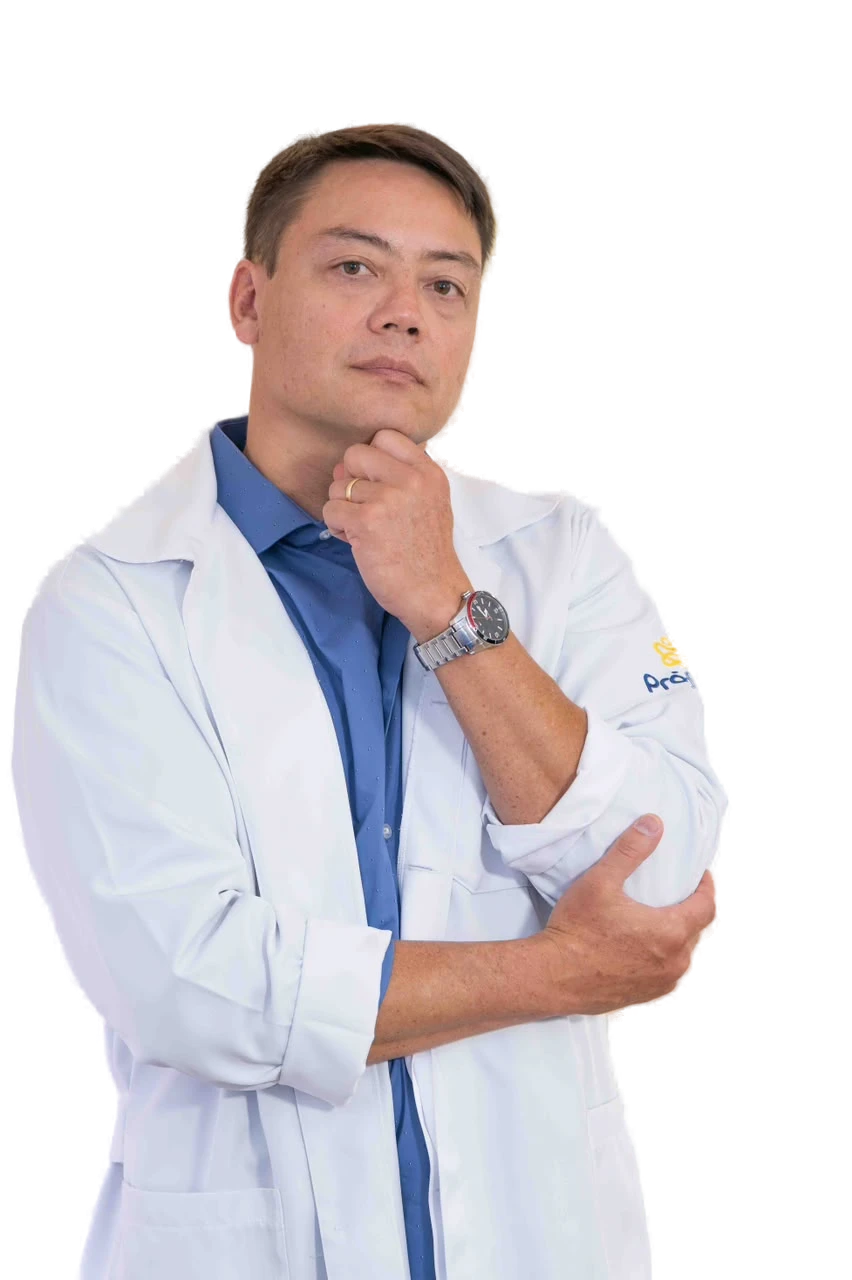
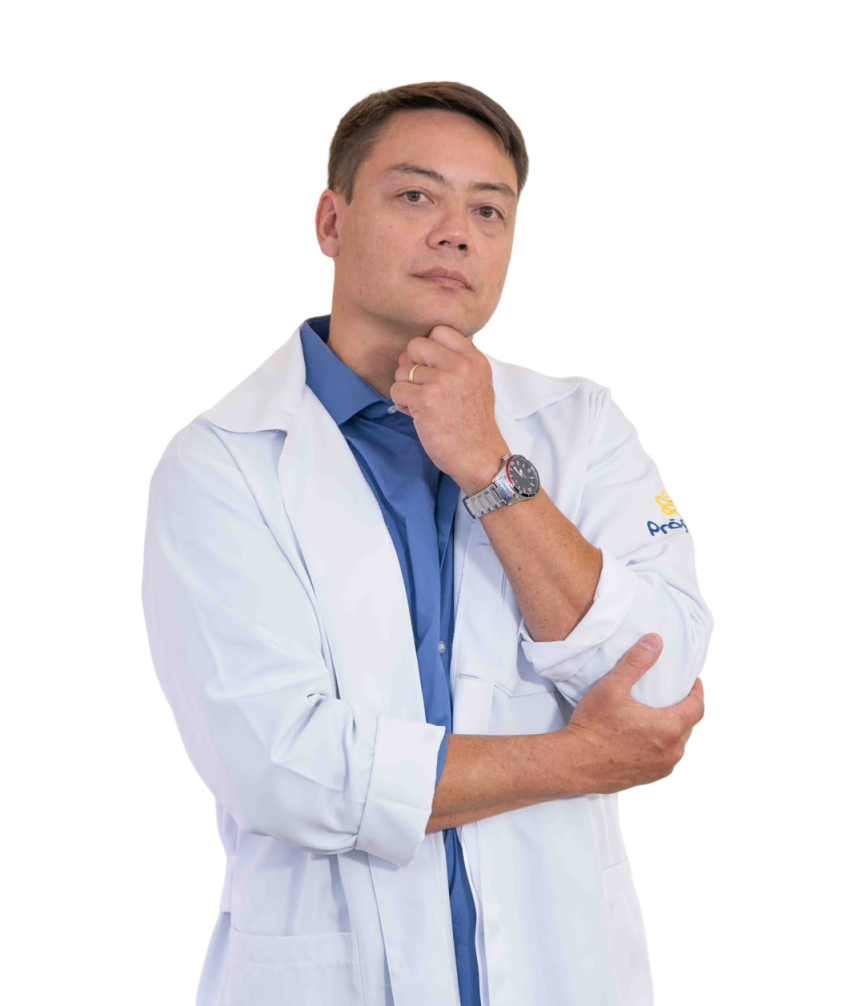
finish

diff --git a/src/routes/index.tsx b/src/routes/index.tsx
@@ -8,21 +8,21 @@ export const Route = createFileRoute("/")({
 const services = [
   { n: "01", title: "Fisioterapia Respiratória", tag: "Atendimento CTI", desc: "Atuação especializada no cuidado de pacientes críticos, com foco na prevenção de complicações, recuperação funcional, reabilitação respiratória e motora, contribuindo para uma evolução clínica mais segura." },
   { n: "02", title: "Fisioterapia Ortopédica e Desportiva", tag: "Atletas & Ativos", desc: "Atuação na prevenção de lesões, recuperação funcional e aprimoramento do desempenho físico, auxiliando atletas e praticantes de atividades esportivas a retornarem às suas atividades com segurança." },
-  { n: "03", title: "Fisioterapia Neurológica", tag: "AVC · Parkinson", desc: "Tratamento especializado para recuperar a funcionalidade e independência de pacientes com sequelas de AVC, Parkinson, esclerose e outras condições neuromotoras." },
+  { n: "03", title: "Fisioterapia Neurológica", tag: "Distúrbios neurológicos", desc: "Tratamento especializado para recuperar a funcionalidade e independência de pacientes com sequelas de AVC, Parkinson, esclerose e outras condições neuromotoras." },
   { n: "04", title: "Fisioterapia na Saúde do Idoso", tag: "Envelhecer bem", desc: "Envelhecer com qualidade é manter a capacidade de viver com autonomia. A fisioterapia atua no cuidado integral do idoso, promovendo movimento, segurança e qualidade de vida em todas as fases do envelhecimento." },
   { n: "05", title: "Acupuntura", tag: "Terapia integrativa", desc: "Aplicação de técnicas tradicionais para modulação da dor, controle de processos inflamatórios, redução do estresse e equilíbrio sistêmico do organismo." },
   { n: "06", title: "Fisioterapia do Trabalho e Ergonomia", tag: "Saúde ocupacional", desc: "Avaliação e intervenção voltadas à saúde ocupacional, prevenção de lesões relacionadas ao trabalho, adequação ergonômica e promoção de ambientes mais seguros e saudáveis." },
 ];
 
 const testimonials = [
-  { name: "Alexandre", role: "Fisioterapia Neurológica", text: "Me respeitou como pessoa e mesmo com dois meses de internamento, me ajudou muito a fazer com que a depressão ficasse longe. Obrigado pelo apoio, pois sabemos que não é fácil com tanta gente pra ser ajudada e ainda manter um atendimento personalizado, um cuidado efetivo. Obrigado meu amigo, que Deus te abençoe e te guarde, sempre." },
-  { name: "Kauanny", role: "Atendimento CTI", text: "Eu lhe agradeço muito, dia 22/07 fez um ano da minha alta e do dia em que consegui caminhar com sua ajuda... Deus te abençoe grandiosamente seu trabalho e sua humanidade fazem a diferença na vida de muitas pessoas grande abraço fisio, serei eternamente grata! 🙏🏼" },
-  { name: "Carlos", role: "Paciente - COVID-19", text: "Cara só tenho a agradecer se não fosse sua atenção, cuidado e dedicação talvez eu nem estaria aqui hoje. Que Deus te abençõe imensamente e que você continue prestando esse serviço maravilhoso como fisio, muito obrigado!" },
+  { name: "Alexandre", role: "17/01/2022 - Hospital Santa Cruz\n(rede d´or)", text: "Me respeitou como pessoa e mesmo com dois meses de internamento, me ajudou muito a fazer com que a depressão ficasse longe. Obrigado pelo apoio, pois sabemos que não é fácil com tanta gente pra ser ajudada e ainda manter um atendimento personalizado, um cuidado efetivo. Obrigado meu amigo, que Deus te abençoe e te guarde, sempre." },
+  { name: "Kauanny", role: "22/07/2021 - Hospital Santa Cruz\n(rede d´or)", text: "Eu lhe agradeço muito, dia 22/07 fez um ano da minha alta e do dia em que consegui caminhar com sua ajuda... Deus te abençoe grandiosamente seu trabalho e sua humanidade fazem a diferença na vida de muitas pessoas grande abraço fisio, serei eternamente grata! 🙏🏼" },
+  { name: "Carlos", role: "20/06/2021 - Hospital Vitória", text: "Cara só tenho a agradecer se não fosse sua atenção, cuidado e dedicação talvez eu nem estaria aqui hoje. Que Deus te abençõe imensamente e que você continue prestando esse serviço maravilhoso como fisio, muito obrigado!" },
 ];
 
 const stats = [
   { value: "5.700+", label: "Pacientes atendidos" },
-  { value: "23+", label: "Anos de experiência" },
+  { value: "25+", label: "Anos de experiência" },
   { value: "100%", label: "Taxa de satisfação" },
   { value: "12", label: "Especialidades" },
 ];
@@ -51,10 +51,10 @@ function Index() {
   };
 
   const nav = [
-    { id: "manifesto", label: "Manifesto" },
+    { id: "manifesto", label: "No que acredito" },
     { id: "praticas", label: "Práticas" },
     { id: "sobre", label: "Sobre" },
-    { id: "vozes", label: "Vozes" },
+    { id: "vozes", label: "Depoimentos" },
     { id: "contato", label: "Contato" },
   ];
 
@@ -133,19 +133,19 @@ function Index() {
       <header id="inicio" className="relative pt-32 md:pt-40 pb-20 md:pb-28 px-6 md:px-10">
         <div className="max-w-7xl mx-auto grid md:grid-cols-12 gap-8 items-end">
           <div className="md:col-span-7 animate-fade-up">
-            <div className="flex items-center gap-3 mb-8 text-xs uppercase tracking-[0.3em] text-muted-foreground">
+            <div className="flex items-center gap-3 mb-8 text-sm uppercase tracking-[0.3em] text-muted-foreground">
               <span className="h-px w-10 bg-primary" />
               <span>Belo Horizonte · Atendimento presencial</span>
             </div>
             <h1 className="font-serif-display text-[clamp(3rem,8vw,7rem)] leading-[0.95] text-ink">
-              O movimento
+              Para recuperar
               <br />
-              é o caminho de
+              sua <em className="text-primary font-normal">autonomia</em> comece pelo
               <br />
-              <em className="text-primary font-normal">volta a si.</em>
+              <em className="text-primary font-normal">movimento !</em>
             </h1>
             <p className="mt-10 max-w-lg text-lg md:text-xl text-foreground/70 leading-relaxed">
-              Fisioterapia que vai até você — cuidado especializado para
+              Fisioterapia que vai até você! Cuidado especializado para
               recuperar movimentos, autonomia e qualidade de vida, com um olhar
               humano em cada consulta.
             </p>
@@ -177,12 +177,13 @@ function Index() {
               />
               <div className="absolute bottom-0 inset-x-0 p-6 bg-foreground/35 backdrop-blur border-t border-background/20">
                 <div className="text-xs uppercase tracking-widest text-background/70">CREFITO</div>
-                <div className="font-serif-display text-2xl text-background mt-1">Nº 54341-F</div>
+                <div className="font-body font-medium tracking-wide tabular-nums text-xl text-background mt-1">Nº 54341-F</div>
               </div>
             </div>
-            <div className="mt-6 flex items-center gap-4 text-sm text-muted-foreground">
+            <div className="mt-6 flex items-center text-sm text-muted-foreground">
               <span className="font-serif-display italic text-2xl text-primary">"</span>
               <span>Um cuidado que atravessa gerações e histórias.</span>
+              <span className="font-serif-display italic text-2xl text-primary">"</span>
             </div>
           </div>
         </div>
@@ -191,7 +192,7 @@ function Index() {
         <div className="max-w-7xl mx-auto mt-24 grid grid-cols-2 md:grid-cols-4 border-t border-border">
           {stats.map((s) => (
             <div key={s.label} className="py-8 px-2 md:px-6 border-r last:border-r-0 border-border">
-              <div className="font-serif-display text-4xl md:text-5xl text-ink">{s.value}</div>
+              <div className="font-body font-light tracking-tight tabular-nums text-4xl md:text-5xl text-ink">{s.value}</div>
               <div className="mt-2 text-xs uppercase tracking-widest text-muted-foreground">{s.label}</div>
             </div>
           ))}
@@ -208,7 +209,7 @@ function Index() {
           className="pointer-events-none absolute -right-24 top-1/2 -translate-y-1/2 w-[26rem] md:w-[34rem] opacity-[0.12]"
         />
         <div className="relative max-w-5xl mx-auto">
-          <div className="text-xs uppercase tracking-[0.4em] text-background/50 mb-10">Manifesto ·  §01</div>
+          <div className="text-sm uppercase tracking-[0.4em] text-background/50 mb-10">No que Acredito</div>
           <p className="font-serif-display text-3xl md:text-5xl leading-tight text-background">
             Cada corpo carrega uma história. A fisioterapia começa quando alguém
             se dispõe a ouvir essa história{" "}
@@ -217,7 +218,7 @@ function Index() {
           <div className="mt-16 flex items-center gap-4">
             <span className="h-px w-16 bg-primary" />
             <span className="text-sm uppercase tracking-widest text-background/70">
-              Deivis Cordeiro — 23 anos de prática clínica
+              Deivis Cordeiro — 25 anos de prática clínica
             </span>
           </div>
         </div>
@@ -228,10 +229,10 @@ function Index() {
         <div className="max-w-7xl mx-auto">
           <div className="grid md:grid-cols-12 gap-8 mb-16 items-end">
             <div className="md:col-span-5">
-              <div className="text-xs uppercase tracking-[0.3em] text-primary mb-4">Práticas ·  §02</div>
+              <div className="text-sm uppercase tracking-[0.3em] text-primary mb-4">Práticas</div>
               <h2 className="font-serif-display text-5xl md:text-6xl text-ink leading-none">
-                Seis modos de<br />
-                <em className="text-primary">cuidar</em>.
+                Tratamentos e
+                <em className="text-primary"> Especialidades</em>
               </h2>
             </div>
             <p className="md:col-span-6 md:col-start-7 text-lg text-foreground/70 leading-relaxed">
@@ -294,14 +295,14 @@ function Index() {
             </div>
           </div>
           <div className="md:col-span-7 md:pl-8">
-            <div className="text-xs uppercase tracking-[0.3em] text-primary mb-4">Sobre ·  §03</div>
+            <div className="text-sm uppercase tracking-[0.3em] text-primary mb-4">Sobre</div>
             <h2 className="font-serif-display text-4xl md:text-6xl text-ink leading-tight mb-8">
               Um olhar <em className="text-primary">empático</em> a quem confia
               na sua recuperação.
             </h2>
             <div className="space-y-5 text-foreground/75 text-lg leading-relaxed">
               <p>
-                Com <strong className="text-ink">23 anos de dedicação</strong>{" "}
+                Com <strong className="text-ink">25 anos de dedicação</strong>{" "}
                 à Fisioterapia, desenvolvo um trabalho voltado à recuperação
                 funcional, prevenção de limitações e promoção da qualidade de
                 vida. Minha trajetória profissional é marcada pela busca
@@ -353,128 +354,128 @@ function Index() {
       <section id="vozes" className="py-24 md:py-36 px-6 md:px-10 bg-muted">
         <div className="max-w-7xl mx-auto">
           <div className="mb-16 max-w-2xl">
-            <div className="text-xs uppercase tracking-[0.3em] text-primary mb-4">Vozes ·  §04</div>
+            <div className="text-sm uppercase tracking-[0.3em] text-primary mb-4">Depoimentos</div>
             <h2 className="font-serif-display text-5xl md:text-6xl text-ink leading-none">
               O que fica nas <em className="text-primary">memórias</em> de quem
               passou por aqui.
             </h2>
           </div>
           <div className="grid md:grid-cols-3 gap-8">
-              {
-                testimonials.map((t) => (
-                  <blockquote
-                    key={t.name}
-                    className="bg-background p-8 md:p-10 border border-border relative flex flex-col"
-                  >
-                    <span className="font-serif-display text-8xl italic text-primary/30 leading-none absolute -top-2 left-6">
-                      "
-                    </span>
-                    <p className="relative font-serif-display text-xl italic text-ink leading-relaxed mb-8 mt-6">
-                      {t.text}
-                    </p>
-                        <footer className="border-t border-border pt-5 mt-auto">
-                          <div className="font-serif-display text-xl text-ink">{t.name}</div>
-                          <div className="text-xs uppercase tracking-widest text-muted-foreground mt-1">
-                            {t.role}
-                          </div>
-                        </footer>
-                      </blockquote>
-            ))}
+            {
+              testimonials.map((t) => (
+                <blockquote
+                  key={t.name}
+                  className="bg-background p-8 md:p-10 border border-border relative flex flex-col"
+                >
+                  <span className="font-serif-display text-8xl italic text-primary/30 leading-none absolute -top-2 left-6">
+                    "
+                  </span>
+                  <p className="relative font-serif-display text-xl italic text-ink leading-relaxed mb-8 mt-6">
+                    {t.text}
+                  </p>
+                  <footer className="border-t border-border pt-5 mt-auto">
+                    <div className="font-serif-display text-xl text-ink">{t.name}</div>
+                    <div className="text-xs uppercase tracking-widest text-muted-foreground mt-1 whitespace-pre-line min-h-8">
+                      {t.role}
                     </div>
-                  </div>
+                  </footer>
+                </blockquote>
+              ))}
+          </div>
+        </div>
       </section>
 
-          {/* CONTATO */}
-          <section id="contato" className="py-24 md:py-36 px-6 md:px-10 bg-foreground text-background">
-            <div className="max-w-6xl mx-auto grid md:grid-cols-12 gap-12">
-              <div className="md:col-span-5">
-                <div className="text-xs uppercase tracking-[0.3em] text-background/70 mb-4">
-                  Contato ·  §05
-                </div>
-                <h2 className="font-serif-display text-5xl md:text-6xl leading-none mb-8">
-                  Comece sua<br />
-                  <em className="text-background underline decoration-primary decoration-2 underline-offset-8">recuperação</em><br />
-                  hoje.
-                </h2>
-                <p className="text-background/80 text-lg leading-relaxed mb-10">
-                  Atendimento domiciliar e consultório em Belo Horizonte.
-                </p>
-                <div className="space-y-6">
-                  <div>
-                    <div className="text-xs uppercase tracking-widest text-background/60 mb-1">Endereço</div>
-                    <div className="font-serif-display text-2xl">Belo Horizonte — MG</div>
-                  </div>
-                  <div>
-                    <div className="text-xs uppercase tracking-widest text-background/60 mb-1">Horários</div>
-                    <div className="font-serif-display text-2xl">Seg – Sex · 7h às 18h</div>
-                  </div>
-                  <div>
-                    <div className="text-xs uppercase tracking-widest text-background/60 mb-1">WhatsApp</div>
-                    <a
-                      href="https://wa.me/5531991337130"
-                      target="_blank"
-                      rel="noreferrer"
-                      className="font-serif-display text-2xl text-background hover:text-primary transition-colors"
-                    >
-                      (31) 9 9133-7130
-                    </a>
-                  </div>
-                </div>
+      {/* CONTATO */}
+      <section id="contato" className="py-24 md:py-36 px-6 md:px-10 bg-foreground text-background">
+        <div className="max-w-6xl mx-auto grid md:grid-cols-12 gap-12">
+          <div className="md:col-span-5">
+            <div className="text-sm uppercase tracking-[0.3em] text-background/70 mb-4">
+              Contato
+            </div>
+            <h2 className="font-serif-display text-5xl md:text-6xl leading-none mb-8">
+              Comece sua<br />
+              <em className="text-background underline decoration-primary decoration-2 underline-offset-8">recuperação</em><br />
+              hoje.
+            </h2>
+            <p className="text-background/80 text-lg leading-relaxed mb-10">
+              Atendimento domiciliar em Belo Horizonte.
+            </p>
+            <div className="space-y-6">
+              <div>
+                <div className="text-xs uppercase tracking-widest text-background/60 mb-1">Endereço</div>
+                <div className="font-serif-display text-2xl">Belo Horizonte — MG</div>
               </div>
-
-              <div className="md:col-span-7 md:pl-8 flex flex-col justify-center">
-                <div className="border border-background/20 p-8 md:p-12 bg-background/5 backdrop-blur">
-                  <p className="font-serif-display text-2xl md:text-3xl leading-snug mb-6">
-                    Vamos conversar e encontrar o melhor caminho para o seu cuidado.
-                  </p>
-                  <p className="text-background/70 mb-8">
-                    Clique no botão abaixo e envie uma mensagem pré-preenchida pelo WhatsApp. Responderemos o mais breve possível.
-                  </p>
-                  <a
-                    href="https://wa.me/5531991337130?text=Olá!%20Gostaria%20de%20agendar%20uma%20avaliação%20de%20fisioterapia."
-                    target="_blank"
-                    rel="noreferrer"
-                    className="inline-flex items-center gap-3 px-8 py-4 bg-primary text-primary-foreground text-sm uppercase tracking-widest hover:bg-background hover:text-foreground transition-colors"
-                  >
-                    <span>Conversar no WhatsApp</span>
-                    <span aria-hidden="true">→</span>
-                  </a>
-                </div>
+              <div>
+                <div className="text-xs uppercase tracking-widest text-background/60 mb-1">Horários</div>
+                <div className="font-body text-xl tracking-wide tabular-nums">Seg – Sex · 7h às 18h</div>
+              </div>
+              <div>
+                <div className="text-xs uppercase tracking-widest text-background/60 mb-1">WhatsApp</div>
+                <a
+                  href="https://wa.me/5531991337130"
+                  target="_blank"
+                  rel="noreferrer"
+                  className="font-body text-xl tracking-wide tabular-nums text-background hover:text-primary transition-colors"
+                >
+                  (31) 9 9133-7130
+                </a>
               </div>
             </div>
-          </section>
+          </div>
 
-          {/* FOOTER */}
-          <footer className="py-10 px-6 md:px-10 bg-background border-t border-border">
-            <div className="max-w-7xl mx-auto flex flex-col md:flex-row items-center justify-between gap-6">
-              <div className="flex items-center gap-3">
-                <img src="/images/logo-simbolo.png" alt="" width={569} height={600} loading="lazy" className="h-10 w-auto" />
-                <span className="flex flex-col leading-none">
-                  <span className="font-serif-display text-xl tracking-wide text-ink uppercase">Deivis Cordeiro</span>
-                  <span className="mt-1 text-[0.6rem] uppercase tracking-[0.4em] text-primary">Fisioterapeuta</span>
-                </span>
-              </div>
-              <div className="flex gap-8 text-xs uppercase tracking-widest text-muted-foreground">
-                <a href="#" className="hover:text-primary transition-colors">Instagram</a>
-                <a href="https://wa.me/5531991337130" className="hover:text-primary transition-colors">WhatsApp</a>
-                <a href="#" className="hover:text-primary transition-colors">Google</a>
-              </div>
-              <p className="text-xs text-muted-foreground">
-                © 2026 Deivis Cordeiro · CREFITO 54341-F
+          <div className="md:col-span-7 md:pl-8 flex flex-col justify-center">
+            <div className="border border-background/20 p-8 md:p-12 bg-background/5 backdrop-blur">
+              <p className="font-serif-display text-2xl md:text-3xl leading-snug mb-6">
+                Vamos conversar e encontrar o melhor caminho para o seu cuidado.
               </p>
+              <p className="text-background/70 mb-8">
+                Clique no botão abaixo e envie uma mensagem pré-preenchida pelo WhatsApp. Responderemos o mais breve possível.
+              </p>
+              <a
+                href="https://wa.me/5531991337130?text=Olá!%20Gostaria%20de%20agendar%20uma%20avaliação%20de%20fisioterapia."
+                target="_blank"
+                rel="noreferrer"
+                className="inline-flex items-center gap-3 px-8 py-4 bg-primary text-primary-foreground text-sm uppercase tracking-widest hover:bg-background hover:text-foreground transition-colors"
+              >
+                <span>Conversar no WhatsApp</span>
+                <span aria-hidden="true">→</span>
+              </a>
             </div>
-          </footer>
-
-          {/* Floating WhatsApp */}
-          <a
-            href="https://wa.me/5531991337130?text=Olá!%20Gostaria%20de%20agendar%20uma%20avaliação%20de%20fisioterapia."
-            target="_blank"
-            rel="noreferrer"
-            aria-label="WhatsApp"
-            className="fixed bottom-6 right-6 z-40 w-14 h-14 rounded-full bg-primary text-primary-foreground flex items-center justify-center text-2xl shadow-editorial hover:scale-110 transition-transform"
-          >
-            ✆
-          </a>
+          </div>
         </div>
-        );
+      </section>
+
+      {/* FOOTER */}
+      <footer className="py-10 px-6 md:px-10 bg-background border-t border-border">
+        <div className="max-w-7xl mx-auto flex flex-col md:flex-row items-center justify-between gap-6">
+          <div className="flex items-center gap-3">
+            <img src="/images/logo-simbolo.png" alt="" width={569} height={600} loading="lazy" className="h-10 w-auto" />
+            <span className="flex flex-col leading-none">
+              <span className="font-serif-display text-xl tracking-wide text-ink uppercase">Deivis Cordeiro</span>
+              <span className="mt-1 text-[0.6rem] uppercase tracking-[0.4em] text-primary">Fisioterapeuta</span>
+            </span>
+          </div>
+          <div className="flex gap-8 text-xs uppercase tracking-widest text-muted-foreground">
+            <a href="https://www.instagram.com/deivis.cordeiro/" className="hover:text-primary transition-colors">Instagram</a>
+            <a href="https://wa.me/5531991337130" className="hover:text-primary transition-colors">WhatsApp</a>
+            <a href="#" className="hover:text-primary transition-colors">Google</a>
+          </div>
+          <p className="text-xs text-muted-foreground">
+            © 2026 Deivis Cordeiro · CREFITO 54341-F
+          </p>
+        </div>
+      </footer>
+
+      {/* Floating WhatsApp */}
+      <a
+        href="https://wa.me/5531991337130?text=Olá!%20Gostaria%20de%20agendar%20uma%20avaliação%20de%20fisioterapia."
+        target="_blank"
+        rel="noreferrer"
+        aria-label="WhatsApp"
+        className="fixed bottom-6 right-6 z-40 w-14 h-14 rounded-full bg-primary text-primary-foreground flex items-center justify-center text-2xl shadow-editorial hover:scale-110 transition-transform"
+      >
+        ✆
+      </a>
+    </div>
+  );
 }

diff --git a/src/routes/__root.tsx b/src/routes/__root.tsx
@@ -78,7 +78,7 @@ export const Route = createRootRouteWithContext<{ queryClient: QueryClient }>()(
       { charSet: "utf-8" },
       { name: "viewport", content: "width=device-width, initial-scale=1" },
       { title: "Deivis Cordeiro · Fisioterapeuta em Belo Horizonte" },
-      { name: "description", content: "Fisioterapia domiciliar e especializada em BH. 23 anos de experiência em CTI, ortopedia, neurologia, geriatria, acupuntura e ergonomia. CREFITO 54341-F." },
+      { name: "description", content: "Fisioterapia domiciliar e especializada em BH. 25 anos de experiência em CTI, ortopedia, neurologia, geriatria, acupuntura e ergonomia. CREFITO 54341-F." },
       { name: "author", content: "Deivis Cordeiro" },
       { property: "og:title", content: "Deivis Cordeiro · Fisioterapia humanizada em BH" },
       { property: "og:description", content: "Recupere movimento, autonomia e qualidade de vida com atendimento fisioterapêutico personalizado em Belo Horizonte." },

diff --git a/src/styles.css b/src/styles.css
@@ -167,6 +167,7 @@
 @layer utilities {
   .font-serif-display {
     font-family: var(--font-serif);
+    font-variant-numeric: lining-nums;
   }
 
   .font-body {
